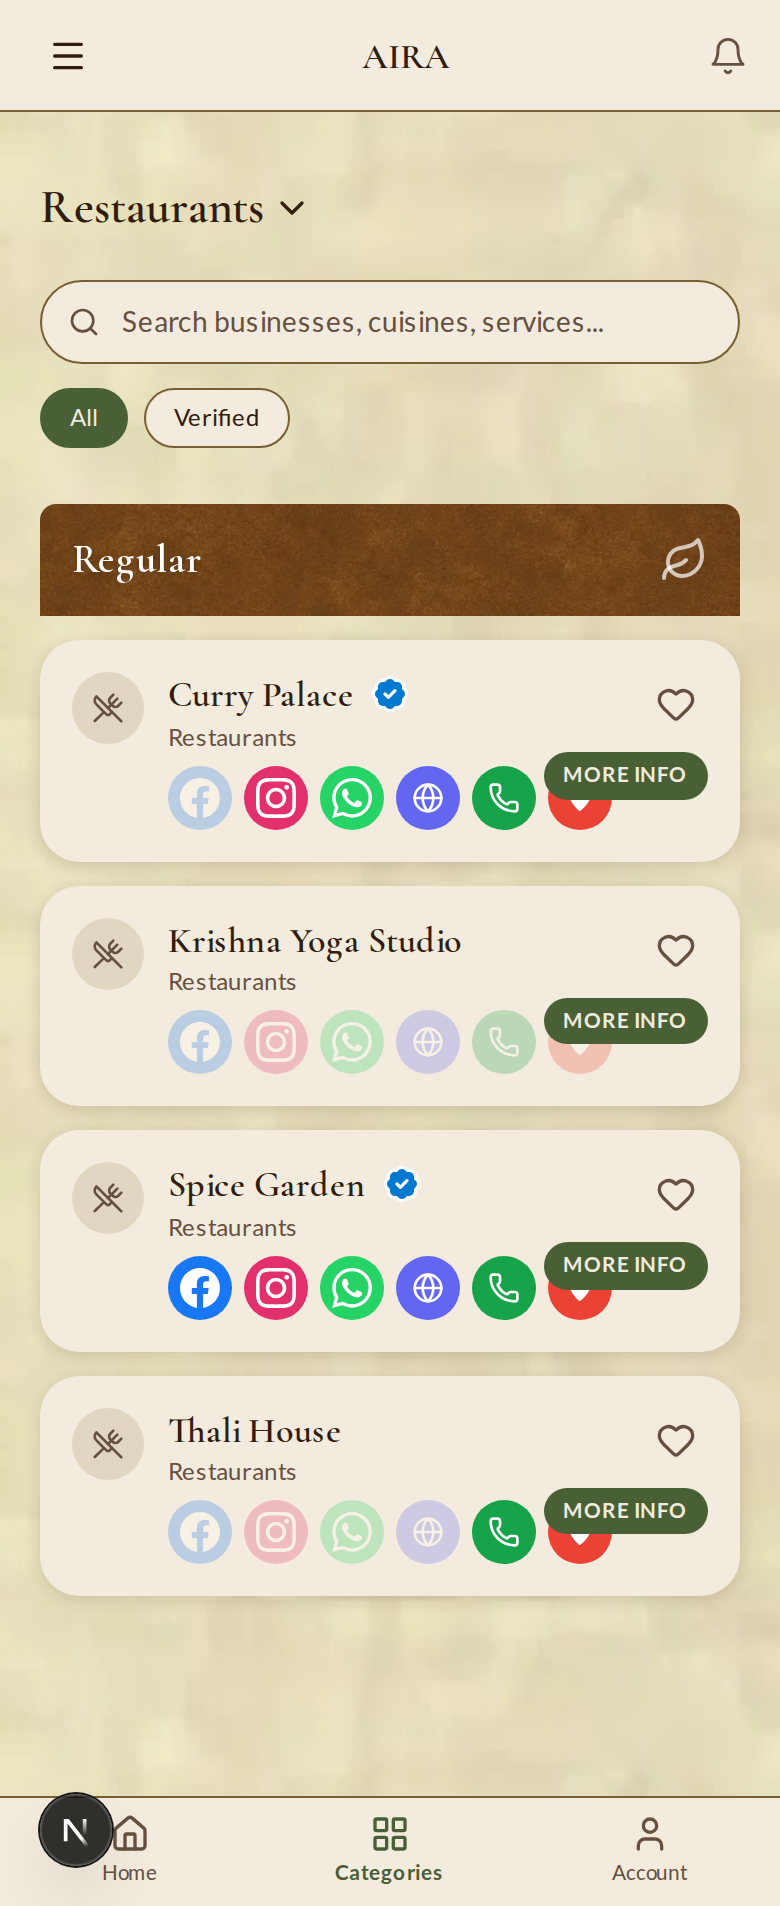
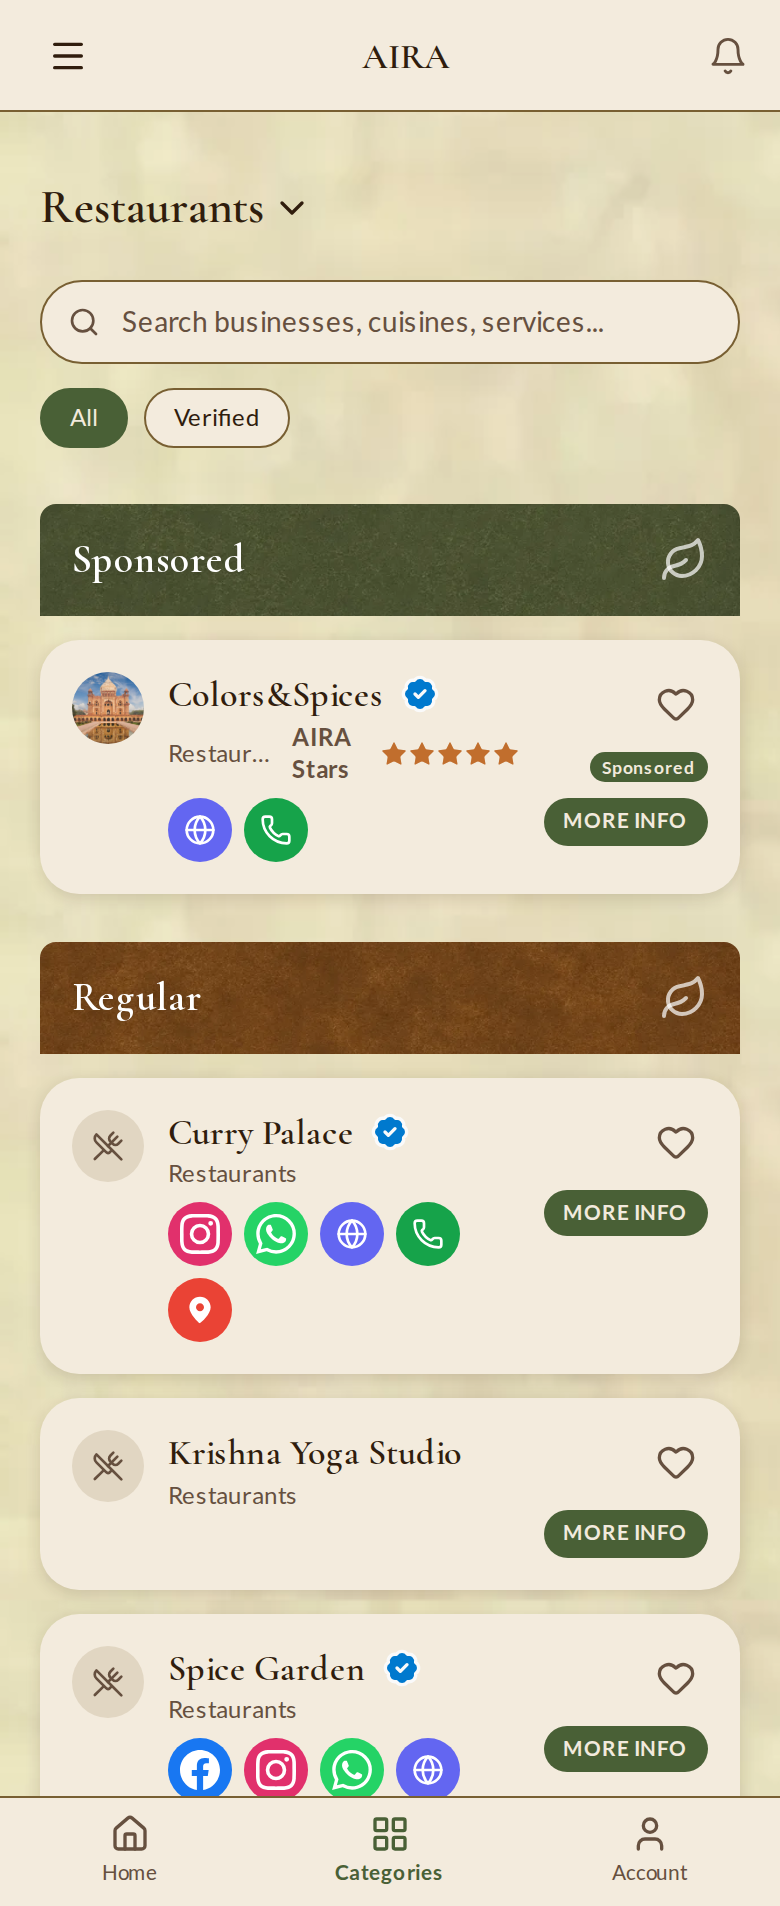
Published your App
Replit-Commit-Author: Deployment
Replit-Commit-Session-Id: 7171810b-d22c-4115-96a7-a6235e3ea6a4
Replit-Commit-Checkpoint-Type: full_checkpoint
Replit-Commit-Event-Id: 82671a00-6ae6-47d4-baaa-64d18d0dc8eb
Replit-Commit-Screenshot-Url: https://storage.googleapis.com/screenshot-production-us-central1/9530c32d-ab5f-4ec0-a51f-9153843d1428/7171810b-d22c-4115-96a7-a6235e3ea6a4/VTgTNcv
Replit-Commit-Deployment-Build-Id: 707c1532-01d0-4b74-9a0c-8d1c7d81beb8
Replit-Helium-Checkpoint-Created: true

diff --git a/apps/web/src/app/page.tsx b/apps/web/src/app/page.tsx
@@ -10,7 +10,7 @@ import { MarketingNav } from "@/components/marketing/marketing-nav"
 import { PhoneShowcase } from "@/components/marketing/phone-showcase"
 import { generateMetadata as buildMetadata } from "@/config/seo"
 
-const PAGE_TITLE = `${brand.name} — A directory of Atlanta's Indian community, curated with care`
+const PAGE_TITLE = `${brand.name} — Atlanta's Indian business directory, curated with care`
 const PAGE_DESCRIPTION = `${brand.name} is a hand-curated directory of trusted Indian-owned businesses across metro Atlanta. Operated by ${brand.legalEntity}. Launching soon — get notified.`
 
 export const metadata = buildMetadata({
@@ -24,7 +24,7 @@ export const metadata = buildMetadata({
         url: "/og-image.png",
         width: 1200,
         height: 630,
-        alt: `${brand.name} — Atlanta's Indian community directory`,
+        alt: `${brand.name} — Atlanta's Indian business directory`,
       },
     ],
     type: "website",

diff --git a/packages/config/src/brand.ts b/packages/config/src/brand.ts
@@ -51,7 +51,7 @@ export const brand = {
   // time, so they belong in the rebrand layer like the rest of the brand
   // copy. Forks edit here; no DB migration, no admin form.
   homepage: {
-    aboutTitle: "A directory of Atlanta's Indian community, curated with care",
+    aboutTitle: "Atlanta's Indian business directory, curated with care",
     aboutBody:
       "AIRA is Atlanta's premier community directory connecting the Indian community with local Indian businesses, services, and resources.",
     // Displayed in the Community Members stat card on /home. Default is the
